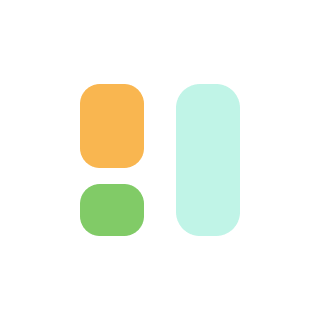
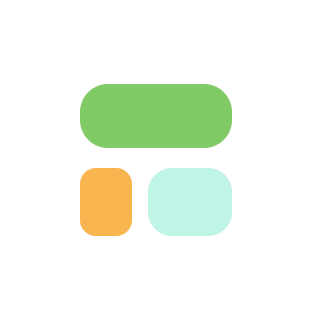
Wrap Widget untuk Content Section.

Changed region(s): [[0.25, 0.25, 0.75, 0.75]]

diff --git a/lib/pages/home_page.dart b/lib/pages/home_page.dart
@@ -17,17 +17,17 @@ class HomePage extends StatelessWidget {
                 'Profile Picture',
                 style: TextStyle(
                   color: primaryTextColor,
-                  fontSize: 20,
+                  fontSize: 18,
                   fontWeight: FontWeight.w600,
                 ),
               ),
               SizedBox(
-                height: 50,
+                height: 30,
               ),
               Image.asset(
                 'assets/images/primary.png',
-                height: 140,
-                width: 140,
+                height: 120,
+                width: 120,
               ),
               SizedBox(
                 height: 16,
@@ -36,7 +36,7 @@ class HomePage extends StatelessWidget {
                 'Dzaky Brori',
                 style: TextStyle(
                   color: primaryTextColor,
-                  fontSize: 18,
+                  fontSize: 16,
                   fontWeight: FontWeight.w500,
                 ),
               ),
@@ -44,12 +44,42 @@ class HomePage extends StatelessWidget {
                 'Full-Stack Developer',
                 style: TextStyle(
                   color: secondaryTextColor,
-                  fontSize: 16,
+                  fontSize: 14,
                   fontWeight: FontWeight.w400,
                 ),
               ),
               SizedBox(
-                height: 75,
+                height: 55,
+              ),
+              Wrap(
+                spacing: 38,
+                runSpacing: 40,
+                children: [
+                  Image.asset(
+                    'assets/images/item.png',
+                    width: 70,
+                  ),
+                  Image.asset(
+                    'assets/images/item-1.png',
+                    width: 70,
+                  ),
+                  Image.asset(
+                    'assets/images/item-2.png',
+                    width: 70,
+                  ),
+                  Image.asset(
+                    'assets/images/item-3.png',
+                    width: 70,
+                  ),
+                  Image.asset(
+                    'assets/images/item-4.png',
+                    width: 70,
+                  ),
+                  Image.asset(
+                    'assets/images/item-5.png',
+                    width: 70,
+                  ),
+                ],
               ),
             ],
           ),
